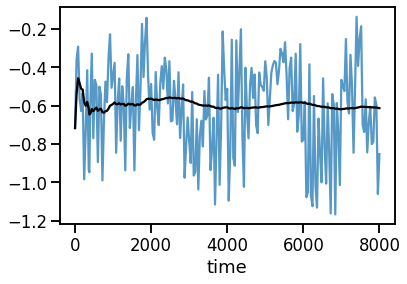
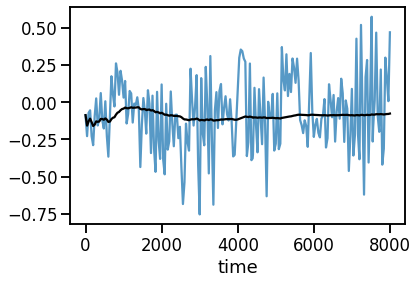
docs | use ab initio

diff --git a/docs/Tutorial/3_md_postprocess.md b/docs/Tutorial/3_md_postprocess.md
@@ -89,7 +89,7 @@ $$
 \end{align}
 $$
 
-where $\left\langle p_{\rm Pot} \right\rangle_{N_t = 2000} = -0.613\,{\rm GPa}$ is the mean pressure observed during the finite simulation, and $\Delta$ is the (unknown) difference to the fully converged expectation value. While we are never able to fully converge a calculation, we can nevertheless estimate the magnitude of the error $\Delta$.
+where $\left\langle p_{\rm Pot} \right\rangle_{N_t = 2000} = -0.076\,{\rm GPa}$ is the mean pressure observed during the finite simulation, and $\Delta$ is the (unknown) difference to the fully converged expectation value. While we are never able to fully converge a calculation, we can nevertheless estimate the magnitude of the error $\Delta$.
 
 We estimate this error by computing $\sigma_{\langle p \rangle}$, the [_standard error of the mean_](https://en.wikipedia.org/wiki/Standard_error):
 
@@ -142,11 +142,11 @@ ax.set_title(f"$\\tau$ is {int(tau)} steps")
 ??? info "Plot pressure autocorrelation function"
 	![image](assets/md_autocorr.png)
 
-In the  present example, the observable decorrelates after about 14 time steps ($\equiv 56\,{\rm fs}$). We therefore estimate the number of uncorrelated samples to be 
+In the  present example, the observable decorrelates after about 10 time steps ($\equiv 40\,{\rm fs}$). We therefore estimate the number of uncorrelated samples to be 
 
 $$
 \begin{align*}
-	\tilde N_t = N_t / 14 \approx 142
+	\tilde N_t = N_t / 10 \approx 200
 \end{align*}
 $$
 
@@ -154,14 +154,14 @@ The standard deviation of the pressure distribution is
 
 $$
 \begin{align}
-	\sigma_p = 0.23426\,{\rm GPa}~,
+	\sigma_p = 0.239\,{\rm GPa}~,
 \end{align}
 $$
 
 so that according to Eq. $\eqref{eq:sigma_O}$,
 
 $$
-\sigma_{\langle p \rangle} = \frac{0.23426}{\sqrt{142}}\,{\rm GPa} \approx 0.06167\,{\rm GPa}~.
+\sigma_{\langle p \rangle} = \frac{0.239}{\sqrt{200}}\,{\rm GPa} \approx 0.053\,{\rm GPa}~.
 $$
 
 
@@ -169,11 +169,13 @@ The final result for the pressure according to Eq. $\eqref{eq:p_final}$ is
 
 $$
 \begin{align*}
-	\langle p_{\rm Pot} (300\,{\rm K}) \rangle = (-0.61255 \pm 0.06167)\,{\rm GPa}~,
+	\langle p_{\rm Pot} (300\,{\rm K}) \rangle = (-0.076 \pm 0.053)\,{\rm GPa}~,
 \end{align*}
 $$
 
-which means that our result is converged within an estimated precision of $10\,\%$. **Remark:** This does _not_ mean that the true expectation lies within the given range. The estimated error is to be understood in the sense of a [confidence interval](https://en.wikipedia.org/wiki/Confidence_interval#Practical_example).
+which means that our result is converged within an estimated precision of $70\,\%$. **Remark:** This does _not_ mean that the true expectation lies within the given range. The estimated error is to be understood in the sense of a [confidence interval](https://en.wikipedia.org/wiki/Confidence_interval#Practical_example). The size of the error signals that the calculation is not fully converged and more sampling time would be necessary to report the observed pressure with confidence. You find reference for a total simulation time of $40\,{\rm ps}$ [here](https://gitlab.com/vibes-developers/vibes-tutorial-files/-/tree/master/3_molecular_dynamics/ab_initio/si_8_longer). How did the value and the error change?
+
+Physics question: The observed potential pressure is negative. _Why?_ Do you expect a positive or negative lattice expansion at $300\,{\rm K}$?
 
 ??? info "Code snippet to compute the mean and the error estimator"
 

diff --git a/docs/Tutorial/5_anharmonicity_quantification.md b/docs/Tutorial/5_anharmonicity_quantification.md
@@ -4,7 +4,7 @@
 	Please refer to [our paper](https://arxiv.org/abs/2006.14672) for background information.
 
 !!! warning
-	The tutorial assumes you are familiar with performing [phonon calculations](3_phonopy.md) and [molecular dynamics simulations](2_md_ab_initio.md).
+	The tutorial assumes you are familiar with performing [phonon calculations](2_phonopy.md) and [molecular dynamics simulations](3_md_ab_initio.md).
 
 ## Background
 
@@ -67,11 +67,11 @@ These ingredients can be obtained with `FHI-vibes` with the following workflow:
 - Obtain force constants for the supercell as introduced in the [phonons tutorial](2_phonopy.md).
 - Run an MD simulation for the supercell as introduced in the [MD tutorial](3_md_canonical_sampling.md).
 
-### Example: LJ-Argon at $20\,{\rm K}$
+### Example: LDA-Silicon at $300\,{\rm K}$
 
 Assuming that  you performed the previous tutorials, we already have all the necessary ingredients available.
 
-In a new working directory, copy your `trajectory.nc` dataset from the the [MD tutorial](3_md_canonical_sampling.md) and your force constants from the [harmonic sampling tutorial](4_statistical_sampling.md#obtain-force-constants), i.e., the file `phonopy/output/FORCE_CONSTANTS`. You can attach the force constants to the trajectory dataset with the CLI tool `utils trajectory update`:
+In a new working directory, copy your `trajectory.nc` dataset from the the [MD tutorial](3_md_ab_initio.md) and your force constants from the [phonopy tutorial](2_phonopy.md), i.e., the file `phonopy/output/FORCE_CONSTANTS`. You can attach the force constants to the trajectory dataset with the CLI tool `utils trajectory update`:
 
 ```
 vibes utils trajectory update trajectory.nc -fc FORCE_CONSTANTS 
@@ -89,11 +89,11 @@ which will give you the total $\sigma^{\rm A}$ value (`sigma`), as well as an in
 
 ```
 DataFrame:
-       sigma  sigma [Ar]  sigma_atom_mean  sigma_mode
-Ar  0.251369    0.251369         0.251369    0.251365
+       sigma  sigma [Si]  sigma_atom_mean  sigma_mode
+Si  0.156109    0.156109         0.156109    0.156026
 ```
 
-This tells you that the average magnitude of anharmonic contributions to the forces, $F^{\rm A}$, in Lennard-Jones Argon at $20\,{\rm K}$ is about $25\,\%$. This is already a larger anharmonic contribution as you would find in silicon at $300\,{\rm K}$.
+This tells you that the average magnitude of anharmonic contributions to the forces, $F^{\rm A}$, in Lennard-Jones Argon at $300\,{\rm K}$ is about $15\,\%$. This is already a larger anharmonic contribution as you would find in silicon at $300\,{\rm K}$.
 
 
 
@@ -105,20 +105,4 @@ To perform an analysis similar to Fig. 8 in [our paper](https://arxiv.org/pdf/20
 vibes utils anharmonicity mode trajectory.nc 
 ```
 
-which will produce a `.csv` file containing mode frequencies $\omega_s$ in THz and the respective mode-resolved anharmonicity $\sigma^{\rm A}_s$. The file can be plotted like this:
-
-```python
-import pandas as pd
-import seaborn as sns
-
-
-s = pd.read_csv("sigmaA_mode_Ar.csv", index_col=0)
-
-ax = sns.kdeplot(s.index, s, shade=True, cmap="gray_r")
-s.plot(marker=".", lw=0, alpha=0.5, ax=ax)
-
-ax.set_xlim(0, 2.5)
-```
-
-??? info "Plot of mode resolved sigma"
-	![image](assets/sigma_mode_Ar.png)
+which will produce a `.csv` file containing mode frequencies $\omega_s$ in THz and the respective mode-resolved anharmonicity $\sigma^{\rm A}_s$.

diff --git a/docs/Tutorial/4_statistical_sampling.md b/docs/Tutorial/4_statistical_sampling.md
@@ -3,7 +3,7 @@
 !!! warning "Warnings"
 
 	- **Never ever rely on estimates obtained by the following method _unless_ you know _exactly_ what you are doing.**
-	- The tutorial assumes you are familiar with performing [phonon calculations](3_phonopy.md).
+	- The tutorial assumes you are familiar with performing [phonon calculations](2_phonopy.md).
 
 ### Thermodynamic sampling via MD simulations
 
@@ -115,7 +115,7 @@ Check the bandstructure in `output/bandstructure.pdf` for plausibility.
 
 #### Remap the force constants to the supercell
 
-The force constants are written to [`output/FORCE_CONSTANTS`](../Documentation/output_files.md#force_constants). For creating samples, they need to be mapped to a full $3 N \times 3N$ shape. This can be done with the CLi tool `utils fc remap`,
+The force constants are written to [`output/FORCE_CONSTANTS`](../Documentation/output_files.md#force_constants). For creating samples, they need to be mapped to a full $3 N \times 3N$ shape. This can be done with the CLi tool `vibes utils fc remap`,
 
 ```
 cd output
@@ -231,11 +231,11 @@ The [mean pressure and standard error](3_md_postprocess.md#expectation-value-and
 
 $$
 \begin{align*}
-\langle p_{\rm Pot} (20\,{\rm K}) \rangle^{(2)} = (0.1104 \pm 0.0006)\,{\rm GPa}~,
+\langle p_{\rm Pot} (300\,{\rm K}) \rangle^{(2)} = (-0.11 \pm 0.05)\,{\rm GPa}~,
 \end{align*}
 $$
 
-which is converged with a precision of $\sim 0.5\,\%$. **However**, the superscript $\langle \cdot \rangle^{(2)}$ reminds us that we used the harmonic approximation to create the samples. Indeed, the pressure found by harmonic sampling is about $2.5\,\%$ larger than the [MD reference computed in the previous tutorial](3_md_postprocess.md#expectation-value-and-convergence-estimation).
+which is converged with a precision of $\sim 20\,\%$. **However**, the superscript $\langle \cdot \rangle^{(2)}$ reminds us that we used the harmonic approximation to create the samples. Indeed, the pressure found by harmonic sampling is about $40\,\%$ larger than the [MD reference computed in the previous tutorial](3_md_postprocess.md#expectation-value-and-convergence-estimation). Yet, the  two values coincide within their error margins. Further sampling on both sides would be needed to compute the actual difference between the two sampling techniques.
 
 ## Take Home Messages
 
